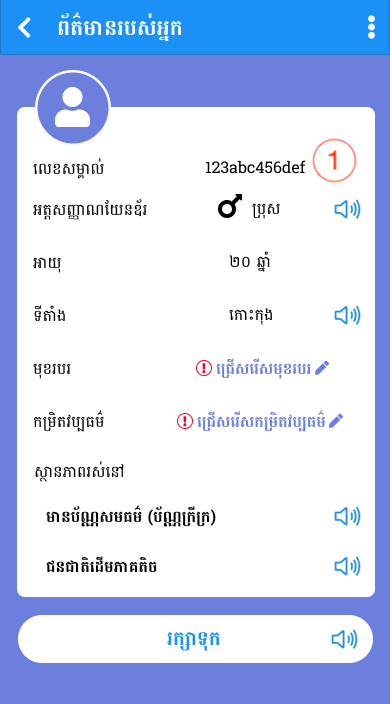
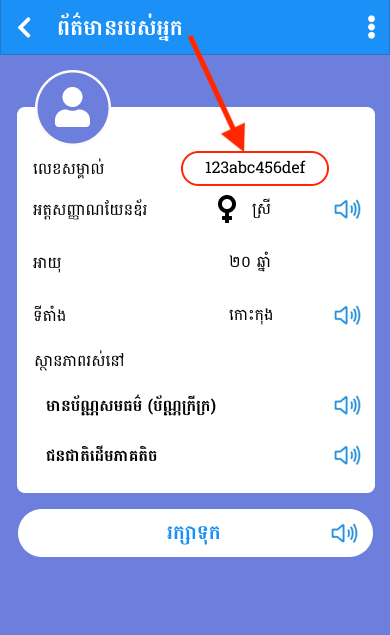
User delete info: enhance hint image

diff --git a/app/assets/stylesheets/devise-form.scss b/app/assets/stylesheets/devise-form.scss
@@ -69,6 +69,16 @@
       width: 120px;
     }
   }
+
+  .btn-info-circle {
+    width: 20px;
+    height: 20px;
+    border: 1px solid #0d6efd;
+    color: #0d6efd;
+    border-radius: 50%;
+    font-size: 12px;
+    text-align: center;
+  }
 }
 
 @media screen and (max-width: 992px) {
